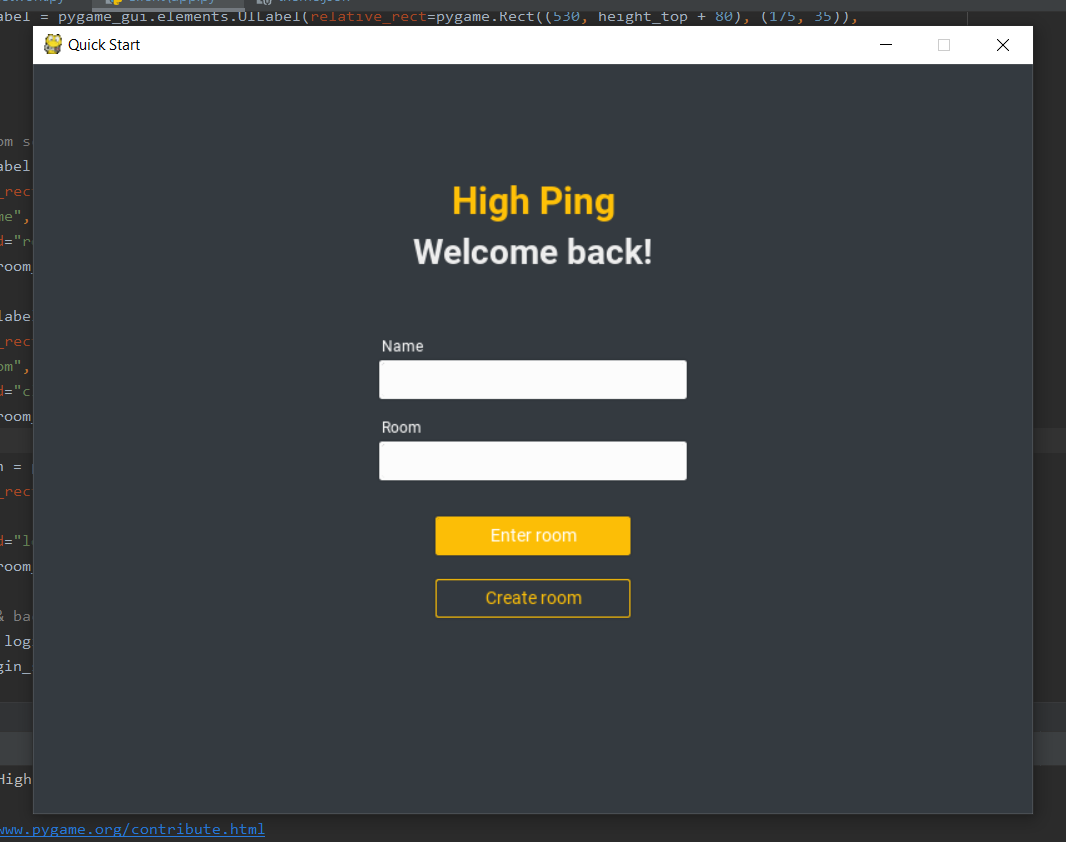
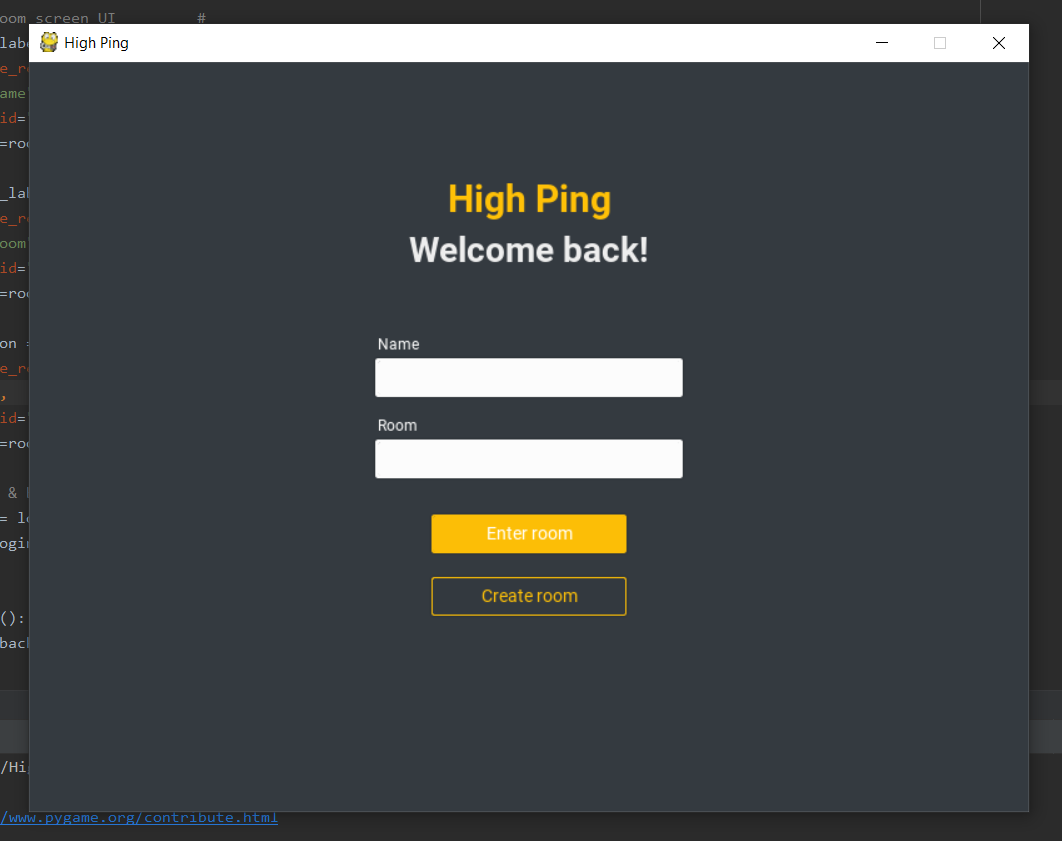
edited screenshots

diff --git a/Client/app.py b/Client/app.py
@@ -5,7 +5,7 @@ from network import Network
 
 pygame.init()
 
-pygame.display.set_caption('Quick Start')
+pygame.display.set_caption('High Ping')
 window_surface = pygame.display.set_mode((800, 600))
 
 login_screen_background = pygame.Surface((800, 600))
@@ -124,6 +124,9 @@ def run_app():
 
 
 def validate_login(name, room, create):
+    name_error_label.set_text("")
+    room_error_label.set_text("")
+
     if len(name_text_field.text) < 1:
         name_error_label.set_text("Please, enter your name")
         if len(room_text_field.text) < 1:
@@ -131,9 +134,6 @@ def validate_login(name, room, create):
     elif len(room_text_field.text) < 1:
         room_error_label.set_text("Please, enter the room name")
     else:
-        name_error_label.set_text("")
-        room_error_label.set_text("")
-
         def entered_room(response):
             if "created" in response:
                 if response["created"]:
